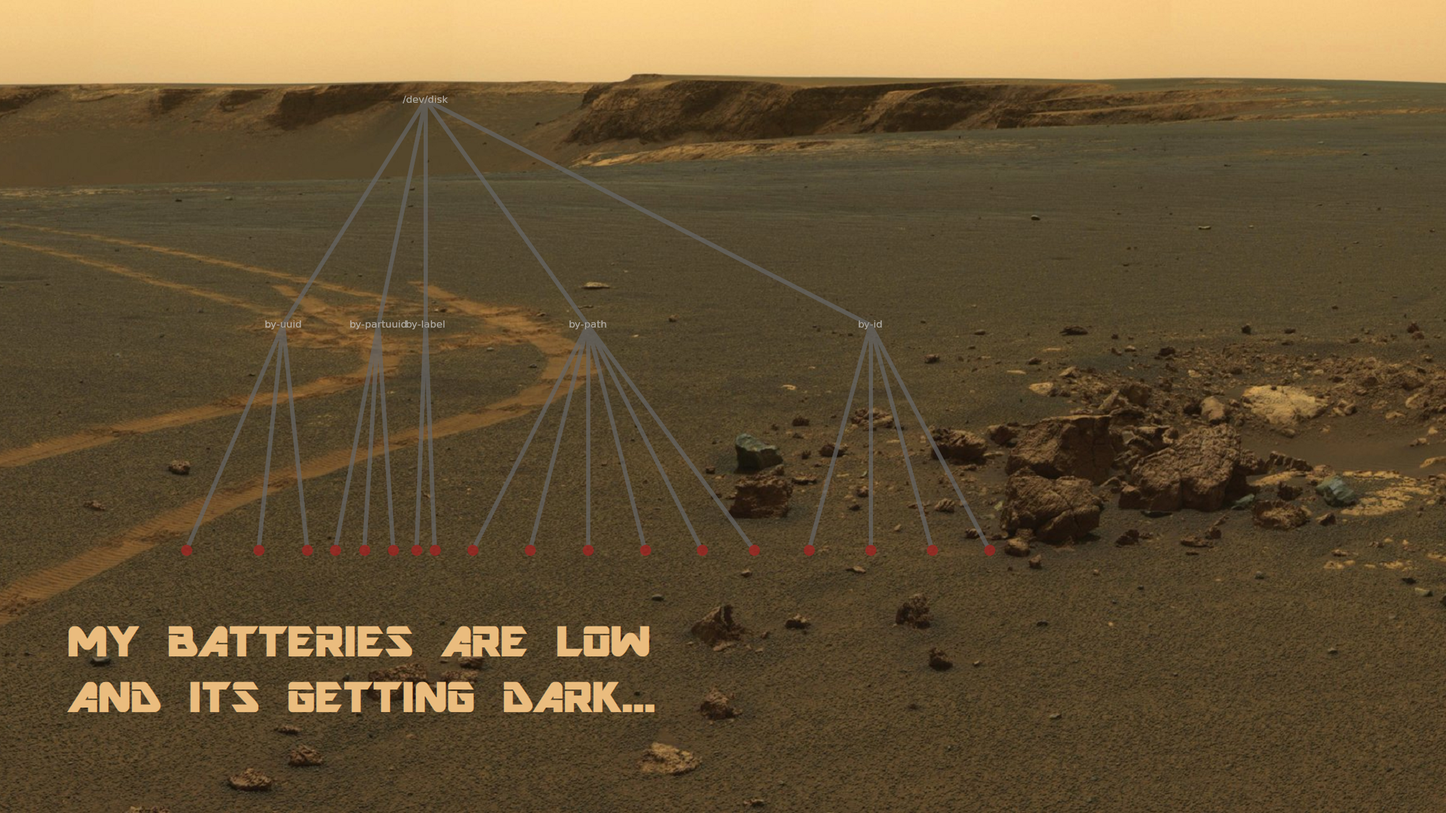
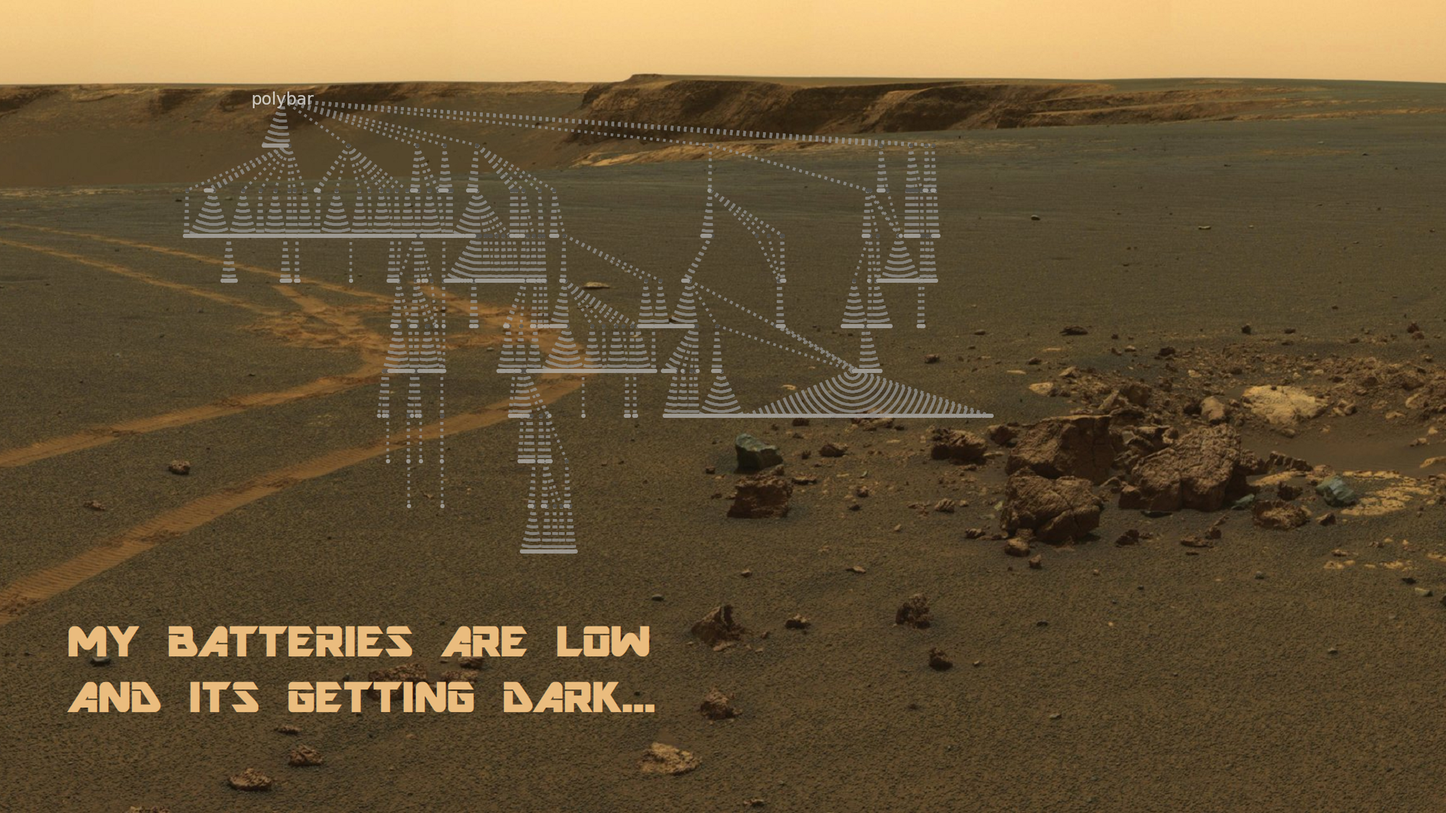
better examples

diff --git a/README.md b/README.md
@@ -5,7 +5,7 @@ Uses matplotlib and networkx to create graph of given directory structure and ex
 ## Examples
 
 ```
-./pfsg.py /dev/disk dot.png --image /home/odroid/opportunity.png -l dot --file-node-colour "#AA2222FF" --show-files --file-node-size 145 --label-size 12 --label-colour "#CCCCCCFF" --edge-colour "#666666FF" --edge-width 5
+./pfsg.py ~/polybar dot.png --image /home/odroid/opportunity.png -l dot --file-node-colour "#BBBBBBFF" --show-files --file-node-size 15 --node-size 15 --label-size 20 --label-colour "#FFFFFFFF" --edge-colour "#999999FF" --edge-style dotted --edge-width 3 --label-depth 1
 ```
 <img src="https://github.com/niveknosredneh/PFSG/blob/master/img/dot.png" width="640" align="middle">
 
